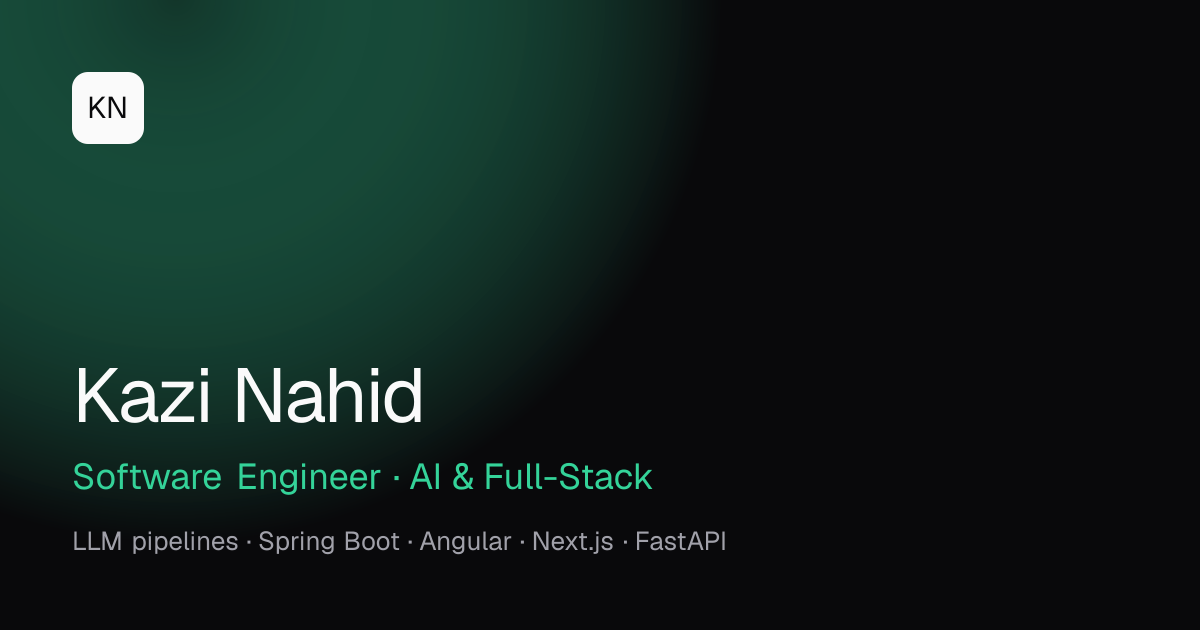
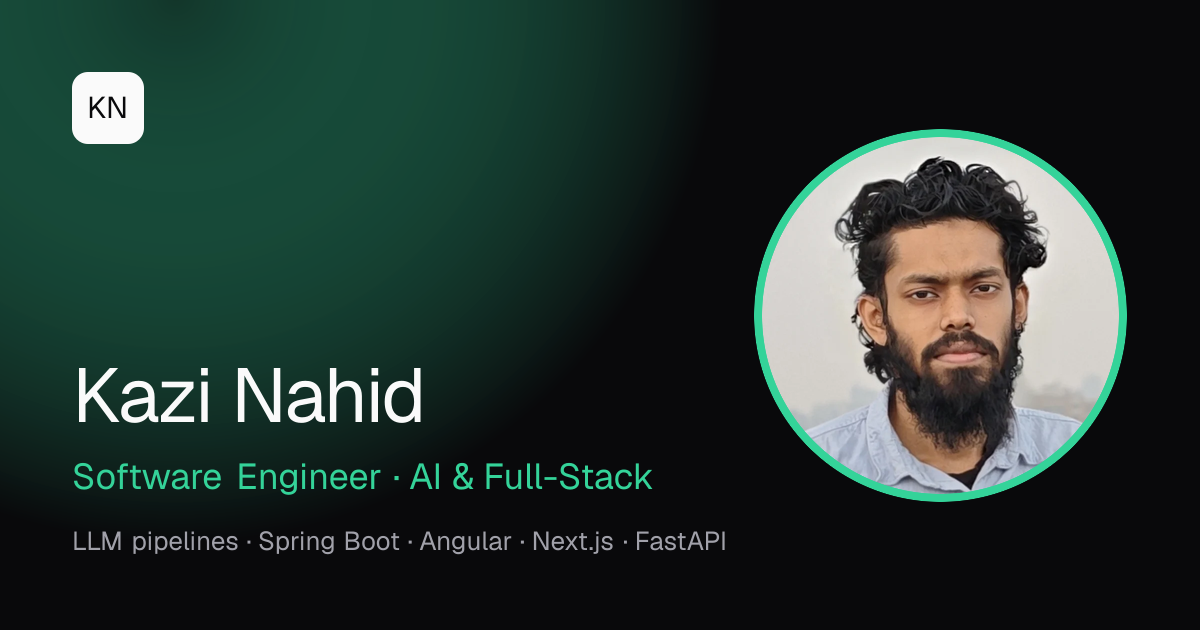
feat: add profile image and update layout in Home component

Changed region(s): [[0.6167, 0.181, 0.9558, 0.8143]]

diff --git a/src/app/page.tsx b/src/app/page.tsx
@@ -1,3 +1,4 @@
+import Image from "next/image";
 import Link from "next/link";
 import {
   ArrowRightIcon,
@@ -17,11 +18,16 @@ export default function Home() {
     <>
       <Hero />
       <Section id="about" index="01" title="About">
-        <Reveal className="max-w-3xl space-y-5 text-lg leading-relaxed text-muted">
-          {about.map((p) => (
-            <p key={p.slice(0, 24)}>{p}</p>
-          ))}
-        </Reveal>
+        <div className="grid items-start gap-10 lg:grid-cols-[1.4fr_1fr]">
+          <Reveal className="space-y-5 text-lg leading-relaxed text-muted">
+            {about.map((p) => (
+              <p key={p.slice(0, 24)}>{p}</p>
+            ))}
+          </Reveal>
+          <Reveal delay={150}>
+            <Terminal />
+          </Reveal>
+        </div>
       </Section>
       <Section id="experience" index="02" title="Experience">
         <Experience />
@@ -48,6 +54,14 @@ function Hero() {
       <div className="mx-auto grid max-w-5xl items-center gap-12 px-4 pt-20 pb-16 sm:px-6 sm:pt-28 lg:grid-cols-[1.25fr_1fr]">
         {/* Not wrapped in Reveal: the headline must paint before JavaScript loads */}
         <div>
+          <Image
+            src={site.photo}
+            alt={`Portrait of ${site.name}`}
+            width={96}
+            height={96}
+            priority
+            className="mb-6 size-24 rounded-full border-2 border-line object-cover lg:hidden"
+          />
           <p className="mb-6 inline-flex items-center gap-2 rounded-full border border-line bg-card/60 px-3 py-1 text-xs text-muted">
             <span className="relative flex size-2">
               <span className="absolute inline-flex size-full animate-ping rounded-full bg-accent opacity-60 motion-reduce:animate-none" />
@@ -93,11 +107,31 @@ function Hero() {
             </div>
           </div>
         </div>
-        <Reveal delay={150}>
-          <Terminal />
-        </Reveal>
+        <Portrait />
       </div>
     </section>
+  );
+}
+
+function Portrait() {
+  return (
+    <div className="relative mx-auto hidden w-full max-w-sm lg:block">
+      <div className="absolute -inset-6 rounded-[2.5rem] bg-accent/15 blur-3xl" aria-hidden="true" />
+      <div className="relative rounded-[2rem] border border-line bg-card p-2 shadow-2xl shadow-black/5 dark:shadow-black/40">
+        <Image
+          src={site.photo}
+          alt={`Portrait of ${site.name}`}
+          width={720}
+          height={720}
+          priority
+          className="aspect-square w-full rounded-[1.5rem] object-cover"
+        />
+      </div>
+      <p className="absolute -bottom-4 left-1/2 inline-flex -translate-x-1/2 items-center gap-2 rounded-full border border-line bg-card px-4 py-2 text-sm font-medium whitespace-nowrap shadow-lg shadow-black/5">
+        <span className="size-2 rounded-full bg-accent" aria-hidden="true" />
+        Open to AI &amp; full-stack roles
+      </p>
+    </div>
   );
 }
 

diff --git a/src/content.ts b/src/content.ts
@@ -11,6 +11,7 @@ export const site = {
   github: "https://github.com/knah1d",
   linkedin: "https://linkedin.com/in/knah1d",
   resume: "/Kazi_Nahid_Resume.pdf",
+  photo: "/profile.webp",
 };
 
 export const hero = {
